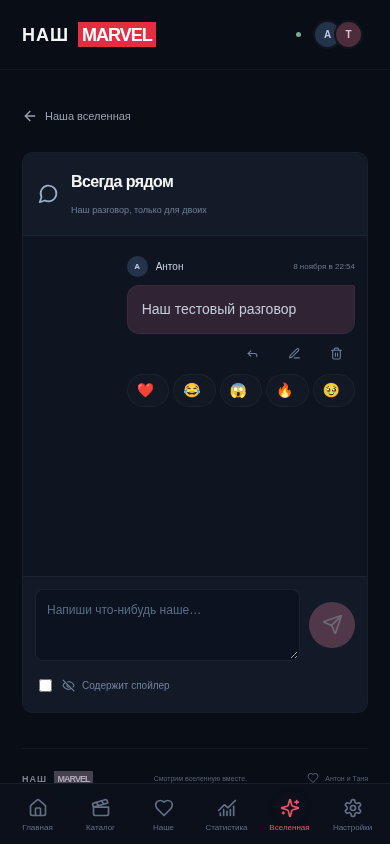
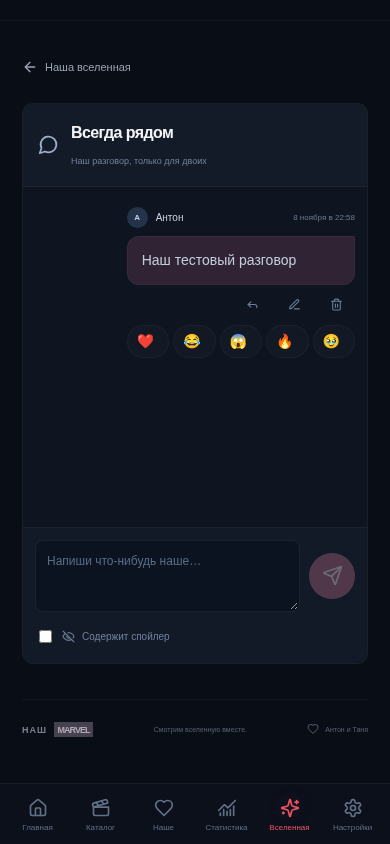
Allow clearing own historical rating after shared progress changes

diff --git a/src/App.tsx b/src/App.tsx
@@ -1703,7 +1703,9 @@ function Detail({
           </div>
           {!canRate && (
             <p className="muted">
-              Оценки откроются после полного просмотра проекта.
+              {cloudActive
+                ? "Сначала отметьте просмотр фильма или серии. Свою прежнюю оценку можно сбросить в любой момент."
+                : "Оценки откроются после полного просмотра проекта."}
             </p>
           )}
           <div className="rating-fields">
@@ -1713,7 +1715,11 @@ function Detail({
                 <span>Оценка {i === 0 ? "Антона" : "Тани"}</span>
                 <select
                   aria-label={`Оценка ${i === 0 ? "Антона" : "Тани"}`}
-                  disabled={!canRate || (cloudActive && who !== family.role)}
+                  disabled={
+                    cloudActive
+                      ? who !== family.role || (!canRate && r[who] === null)
+                      : !canRate
+                  }
                   value={r[who] ?? ""}
                   onChange={(e) =>
                     change({
@@ -1724,7 +1730,11 @@ function Detail({
                 >
                   <option value="">—</option>
                   {Array.from({ length: 10 }, (_, i) => i + 1).map((n) => (
-                    <option key={n} value={n}>
+                    <option
+                      key={n}
+                      value={n}
+                      disabled={cloudActive && !canRate}
+                    >
                       {n}
                     </option>
                   ))}

diff --git a/tests/family/family.spec.ts b/tests/family/family.spec.ts
@@ -264,3 +264,20 @@ test("notification permission is never requested merely by opening settings", as
   await expect(page.getByRole("status")).toBeVisible();
   expect(await page.evaluate(() => (window as any).permissionRequests)).toBe(1);
 });
+test("own old score can be cleared after partner unmarks the film", async ({
+  page,
+  context,
+}) => {
+  const backend = fixture();
+  backend.tables.mv_entries[0].watched = false;
+  await backend.connect(context);
+  await login(page, "anton@example.test");
+  await page
+    .getByRole("button", { name: "Открыть: Железный человек", exact: true })
+    .click();
+  await expect(page.getByLabel("Оценка Антона", { exact: true })).toBeEnabled();
+  await expect(page.getByLabel("Оценка Тани", { exact: true })).toBeDisabled();
+  await page.getByLabel("Оценка Антона", { exact: true }).selectOption("");
+  await expect.poll(() => backend.tables.mv_ratings[0].score).toBeNull();
+  expect(backend.tables.mv_ratings[1].score).toBe(9);
+});

diff --git a/src/family/Sessions.tsx b/src/family/Sessions.tsx
@@ -65,7 +65,7 @@ export function SeasonRatings({ projectId }: { projectId: string }) {
               Моя
               <select
                 aria-label={`Моя оценка ${season ? "сезона " + season : "проекта"}`}
-                disabled={!canRate || a.busy}
+                disabled={a.busy || (!canRate && own?.score == null)}
                 value={own?.score ?? ""}
                 onChange={(e) =>
                   void a.run(() =>
@@ -83,7 +83,7 @@ export function SeasonRatings({ projectId }: { projectId: string }) {
               >
                 <option value="">—</option>
                 {Array.from({ length: 10 }, (_, i) => i + 1).map((n) => (
-                  <option key={n} value={n}>
+                  <option key={n} value={n} disabled={!canRate}>
                     {n}
                   </option>
                 ))}

diff --git a/docs/v2/TEST-REPORT.md b/docs/v2/TEST-REPORT.md
@@ -9,7 +9,7 @@
 - 60 SQL-проверок на настоящем PostgreSQL 17: семейные роли, подтверждённый email-контракт, одноразовое приглашение, RLS, чужие/межсемейные UUID, отсутствие прямой записи, версии/CAS, идемпотентность, миграция и отдельное принятие оценок Тани, черновики и скрытие плановых писем, серверная tick-доставка, dedupe уведомлений, read receipts по согласию, личные настройки, Storage policy, форматы/размеры, предложения времени и экспорт без токенов.
 - В SQL-тестовом окружении `auth.users`, `auth.uid()` и storage-таблицы воспроизводят контракт Supabase; сама Auth-служба и Storage HTTP API этими тестами не проверяются. Политики и PostgreSQL-функции исполняются реально, а не в JS-моке.
 - 7 исходных браузерных сценариев: сохранение v1, две оценки, серии, JSON, защита сброса, фильтры/статистика, пять размеров, офлайн-кеш и новый Service Worker без потери данных.
-- 7 новых браузерных **контрактных** сценариев: первое приветствие и серверный флаг/повторный просмотр, два отдельных браузерных контекста и письма, блокировка партнёрской оценки, чат, календарь, сеанс, офлайн-очередь после восстановления сети, конфликт без перезаписи, отсутствие permission prompt до нажатия. Auth/REST в этих сценариях — явно помеченная фикстура, не живой Supabase; они не доказывают Realtime.
+- 8 новых браузерных **контрактных** сценариев: первое приветствие и серверный флаг/повторный просмотр, два отдельных браузерных контекста и письма, блокировка партнёрской оценки, чат, календарь, сеанс, офлайн-очередь после восстановления сети, конфликт без перезаписи, отсутствие permission prompt до нажатия. Auth/REST в этих сценариях — явно помеченная фикстура, не живой Supabase; они не доказывают Realtime.
 - Deno typecheck обеих Edge Functions; 3 фактических теста обработки JPEG, удаления внедрённого EXIF/GPS и потока с ограничением размера.
 - Сборка проверяется на наличие настоящих `sb_secret_` значений, service_role JWT и server-only env markers. Сам префикс SDK `sb_secret_` не является секретом и не вызывает ложного срабатывания.
 - Все личные слова приветствия находятся вне публичного репозитория и бандла; UI-тесты/скриншоты используют синтетический текст. Ключи VAPID и scheduler подготовлены вне репозитория, значения не печатались.
@@ -36,3 +36,7 @@ Supabase ещё не подключён к этой сессии и целево
 - Бесплатный Supabase может приостанавливать неактивный проект, что влияет на scheduler и своевременность уведомлений.
 
 Запуск: `npm test`, `npm run build`, `npm run test:sql`, `npm run test:edge`, `npm run test:e2e`, `npm run test:family`. Настройка — SETUP.md; ручной сценарий — TWO-IPHONES.md. Финальный выпуск 2.0 до живых проверок не опубликован.
+
+Первый полный CI на GitHub успешно завершён: https://github.com/lol5892/mcu/actions/runs/42532683670 . Все три jobs — application, SQL authorization и Edge — прошли. После этого добавлен восьмой семейный UI-тест: сброс своей старой оценки после снятия общего просмотра. Он также прошёл локально; обновлённая ветка проходит тот же CI повторно.
+
+Черновик PR: https://github.com/lol5892/mcu/pull/1 . Наличие draft PR и зелёных локальных/CI-проверок не означает, что внешний backend или доставка на iPhone уже настроены.
